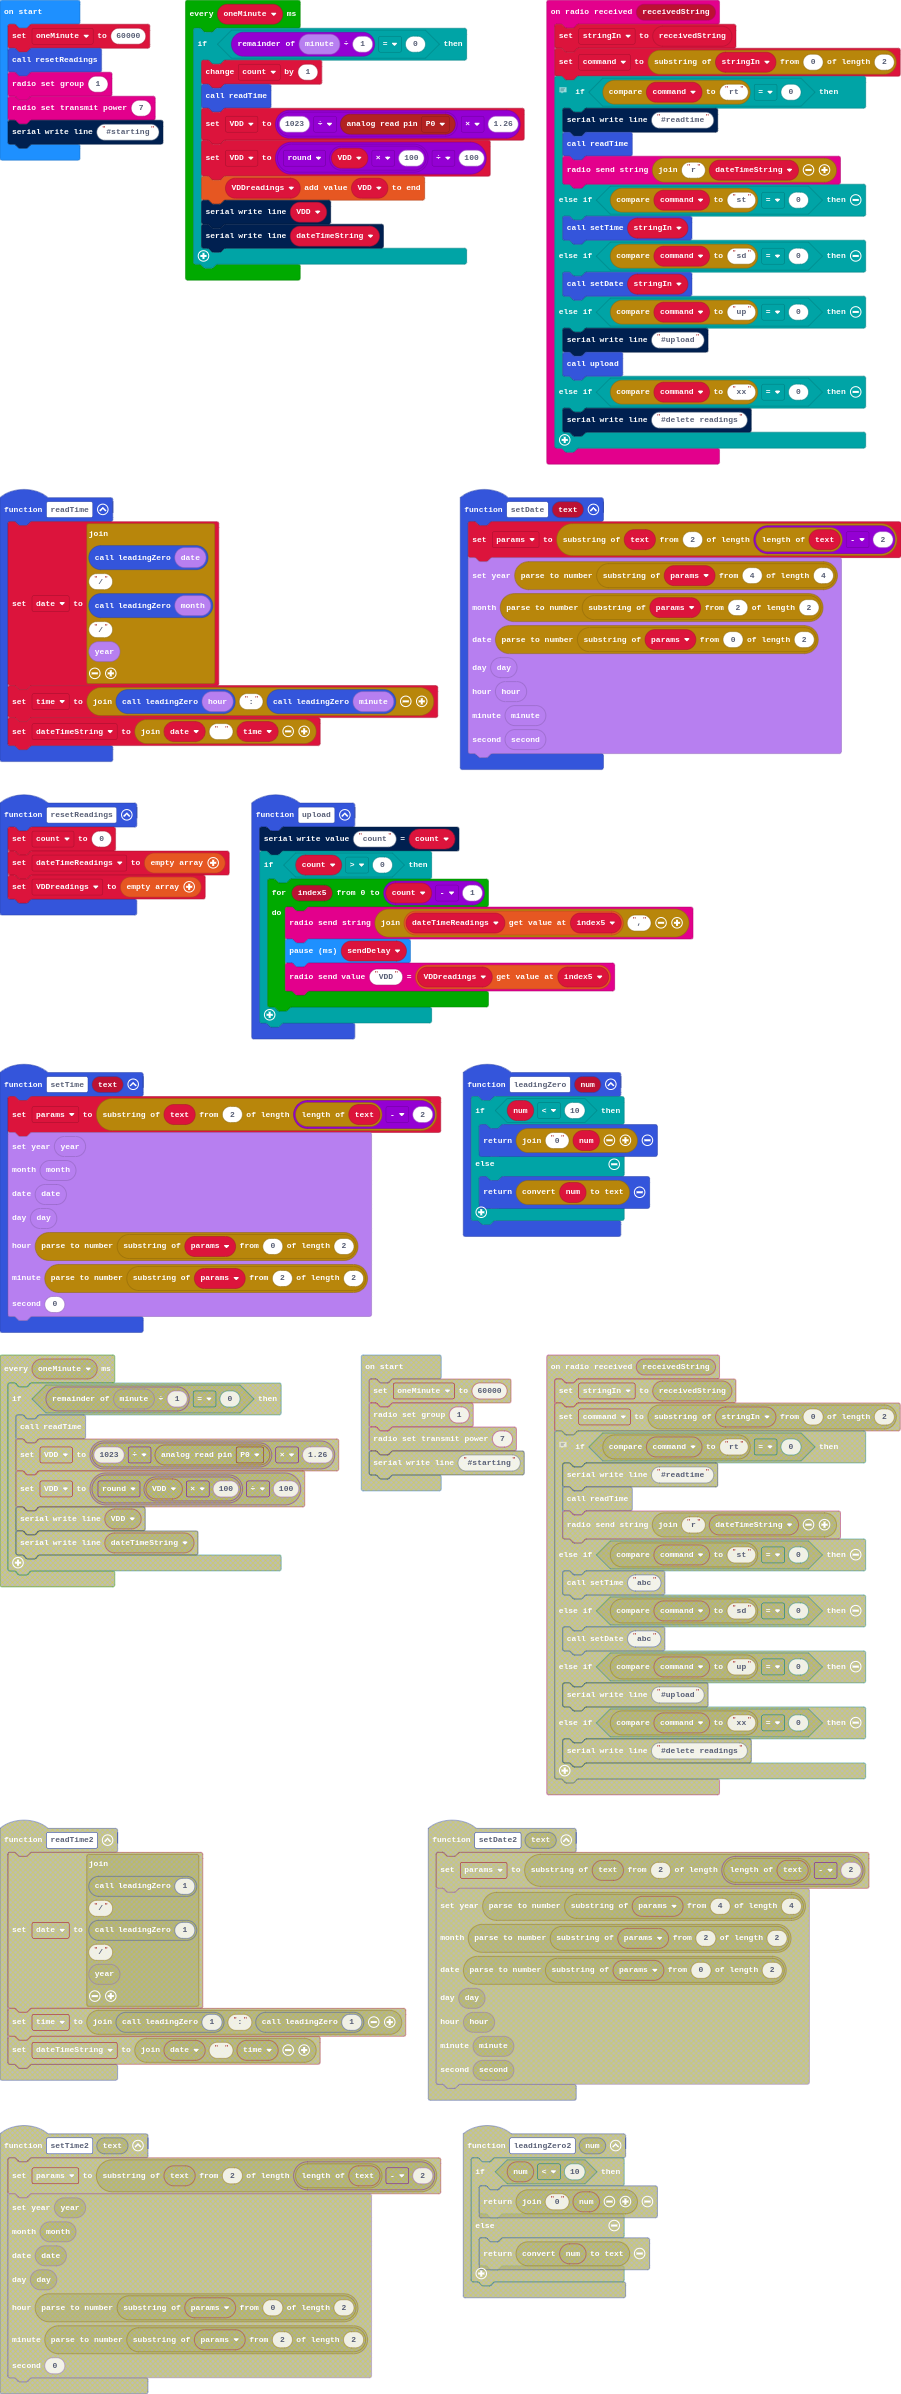
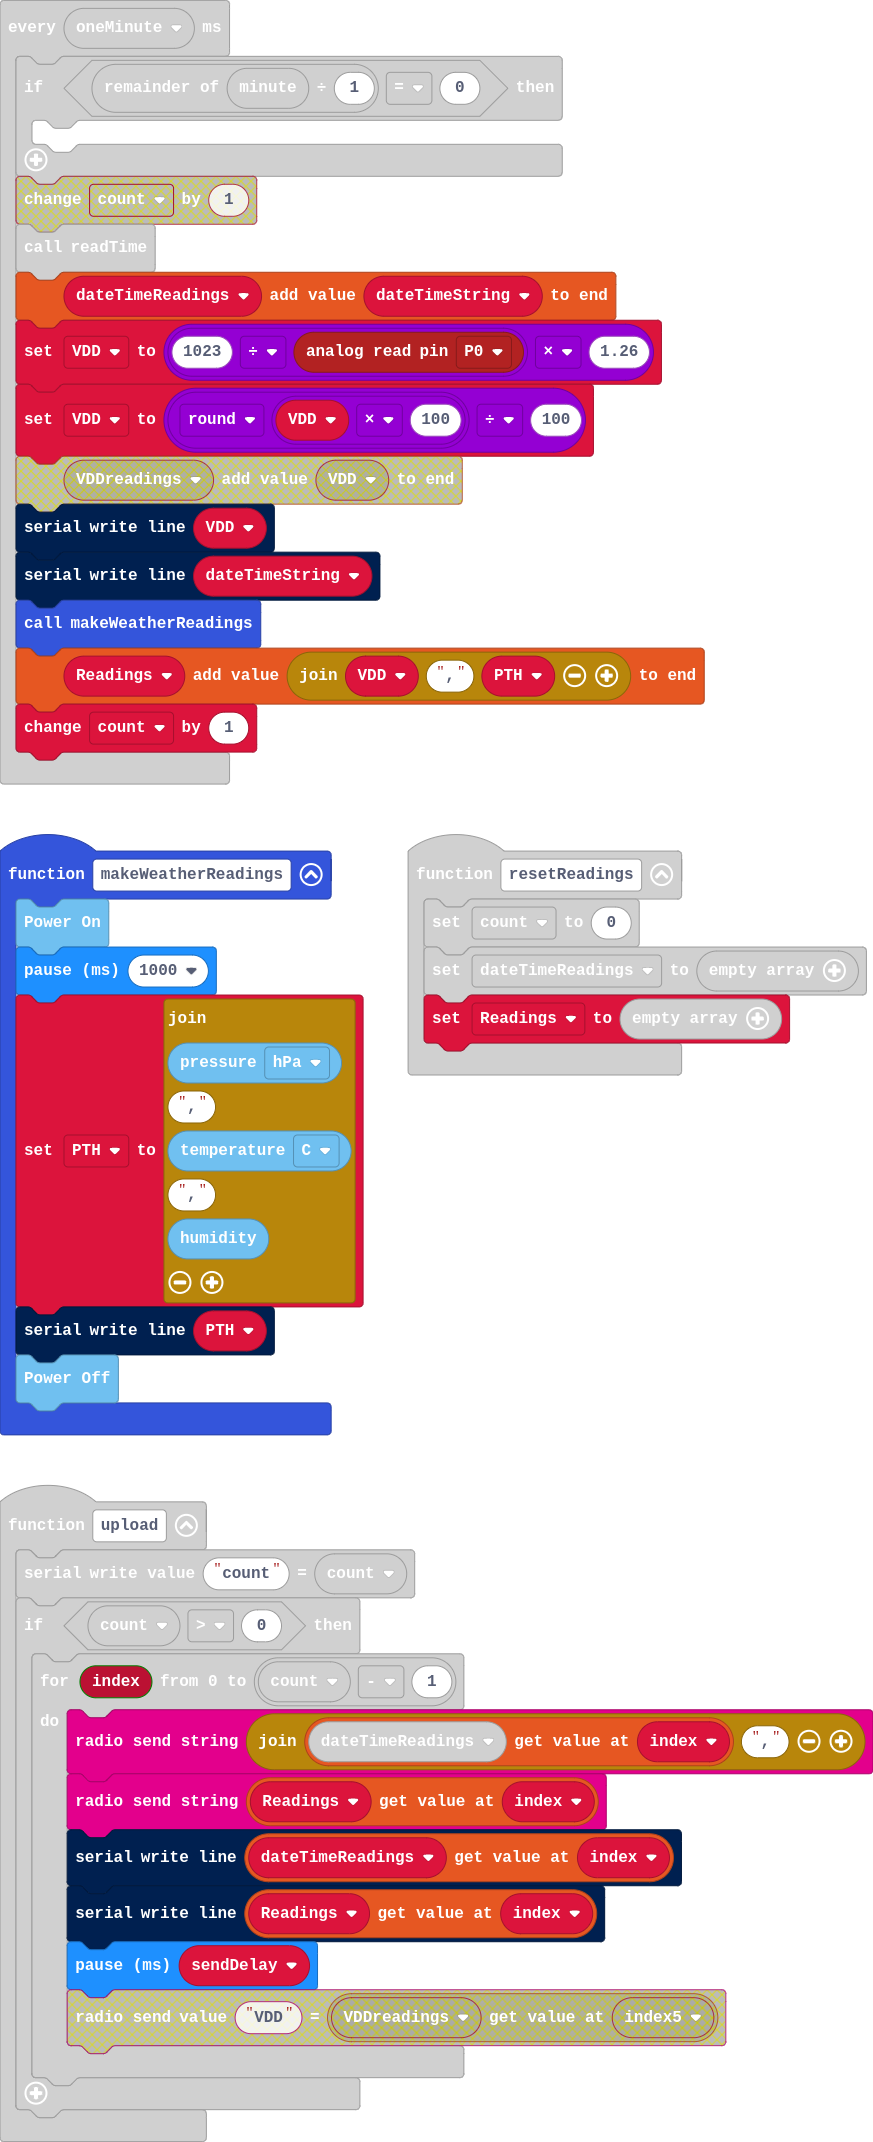
added PTH measurement

diff --git a/main.ts b/main.ts
@@ -6,7 +6,7 @@ function readTime () {
 function resetReadings () {
     count = 0
     dateTimeReadings = []
-    VDDreadings = []
+    Readings = []
 }
 function leadingZero (num: number) {
     if (num < 10) {
@@ -30,11 +30,13 @@ function setDate (text: string) {
 function upload () {
     serial.writeValue("count", count)
     if (count > 0) {
-        for (let index5 = 0; index5 <= count - 1; index5++) {
+        for (let index = 0; index <= count - 1; index++) {
             let sendDelay = 0
-            radio.sendString("" + dateTimeReadings[index5] + ",")
+            radio.sendString("" + dateTimeReadings[index] + ",")
+            radio.sendString("" + (Readings[index]))
+            serial.writeLine("" + (dateTimeReadings[index]))
+            serial.writeLine("" + (Readings[index]))
             basic.pause(sendDelay)
-            radio.sendValue("VDD", VDDreadings[index5])
         }
     }
 }
@@ -49,6 +51,13 @@ function setTime (text: string) {
     parseFloat(params.substr(2, 2)),
     0
     )
+}
+function makeWeatherReadings () {
+    BME280.PowerOn()
+    basic.pause(1000)
+    PTH = "" + BME280.pressure(BME280_P.hPa) + "," + BME280.temperature(BME280_T.T_C) + "," + BME280.humidity()
+    serial.writeLine(PTH)
+    BME280.PowerOff()
 }
 radio.onReceivedString(function (receivedString) {
     stringIn = receivedString
@@ -74,9 +83,10 @@ radio.onReceivedString(function (receivedString) {
 let VDD = 0
 let command = ""
 let stringIn = ""
+let PTH = ""
 let params = ""
-let VDDreadings: number[] = []
-let dateTimeReadings: number[] = []
+let Readings: string[] = []
+let dateTimeReadings: string[] = []
 let count = 0
 let dateTimeString = ""
 let time = ""
@@ -88,11 +98,13 @@ radio.setTransmitPower(7)
 serial.writeLine("#starting")
 loops.everyInterval(oneMinute, function () {
     if (DS3231.minute() % 1 == 0) {
-        count += 1
         readTime()
+        dateTimeReadings.push(dateTimeString)
         VDD = 1023 / pins.analogReadPin(AnalogPin.P0) * 1.26
         VDD = Math.round(VDD * 100) / 100
-        VDDreadings.push(VDD)
+        makeWeatherReadings()
+        Readings.push("" + VDD + "," + PTH)
+        count += 1
         serial.writeLine("" + (VDD))
         serial.writeLine(dateTimeString)
     }
